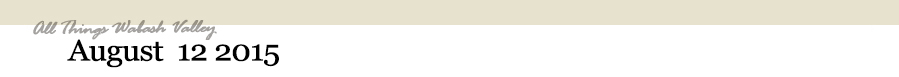
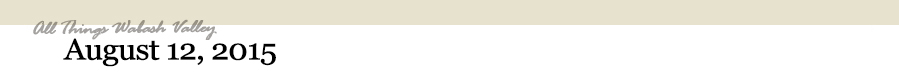
Updated
Updated WISU
Replaced headlines that had missing comma

Changed region(s): [[0.0623, 0.4935, 0.3115, 0.8831]]

diff --git a/GitHubBuild/archive.html b/GitHubBuild/archive.html
@@ -77,7 +77,7 @@ $(window).load(function(){
 				
 				<div class="clear"></div>
 				<script>
-				   var prevMV = "081915"
+				   var prevMV = "082615"
 				  function MonthViewer (n){
 				  if(prevMV != 0){
 				    prevMV = document.getElementsByClassName(prevMV);
@@ -153,6 +153,7 @@ $(window).load(function(){
 						<li onclick="MonthViewer('080515')"><a>August 5, 2015</a></li>
 						<li onclick="MonthViewer('081215')"><a>August 12, 2015</a></li>
 						<li onclick="MonthViewer('081915')"><a>August 19, 2015</a></li>
+						<li onclick="MonthViewer('082615')"><a>August 26, 2015</a></li>
 						 </ul>
 						 </li>
 						 
@@ -1065,12 +1066,12 @@ $(window).load(function(){
 				</p>
 				</td>
 				</tr>
-				<tr class="081915" style="display:table-row;">
+				<tr class="081915" style="display:none;">
                 <td style="text-align:left;padding:10px;"> 
 				<img src="images/Archive/WV.081915/Headline081915.jpg"/>
               </td>
               </tr>
-				<tr class="081915" style="display:table-row;">
+				<tr class="081915" style="display:none;">
 				<td style="text-align:left;padding:10px;">
 				<p> <img style="float:left;max-width:150px;padding-right:20px;" src="images/Archive/WV.081915/WV.081915.Beegle.jpg">
 				Dr. Donna Beegle, author of See Poverty, Be the Difference spoke with Dr. Phil Glende, explaining her own impoverished background, born to a family of cotton pickers. Beegle has worked in 49 states to study how poverty changes across the country. She spoke about what she has learned, how distanced social classes are in America, and what our government can do to make a change. <a href="https://soundcloud.com/wisu-fm/dr-donna-beegle-interview" target="_blank">Donna Beegle: originally aired April 22, 2015</a>
@@ -1078,7 +1079,7 @@ $(window).load(function(){
 				</td>
 				</tr>
 				
-<tr class="081915" style="display:table-row;">
+<tr class="081915" style="display:none;">
 				<td style="text-align:left;padding:10px;">
 							<img src="images/Archive/WV.081915/WV.081915.Morrison.jpg" style="float:left;max-width:150px;padding-right:20px;" title="Alan Morrison"/>
 							
@@ -1087,7 +1088,7 @@ $(window).load(function(){
 							</p>				
 				</td>
 				
-				<tr class="081915" style="display:table-row;">
+				<tr class="081915" style="display:none;">
 				<td style="text-align:left;padding:10px;">
 											
 							<img src="images/Archive/WV.081915/WV.081915.Bennett.jpg" style="float:left;max-width:150px;padding-right:20px;" title="Michelle Bennett"/>
@@ -1099,13 +1100,46 @@ $(window).load(function(){
 				</tr>
                 </tr>
 				
-<tr class="081915" style="display:table-row;">
+<tr class="081915" style="display:none;">
 				<td style="text-align:left;padding:10px;">
 				<p> <img style="float:left;max-width:150px;padding-right:20px;" src="images/Archive/WV.081915/WV.081915.Bradley.jpg">
 				Indiana State University President Dr. Dan Bradley spoke with Dave Taylor. Dr. Bradley discussed his time as president of ISU and how he has changed things for the school. President Bradley also went over how the university is doing overall currently and future plans for updates both on campus and in class. <a href="https://soundcloud.com/wisu-fm/dan-bradley-interview" target="_blank">President Bradley: originally aired March 11, 2015</a>
 				</p>
 				</td>
 				</tr>
+				
+				<tr class="082615" style="display:table-row;">
+				<td style="text-align:left;padding:10px;">
+				<p> <img style="float:left;max-width:150px;padding-right:20px;" src="images/Archive/WV.082615/WV.082615.Kenley.jpg">
+				Luke Kenley spoke with Greg Goode about his various duties as Senator, and discusses various political topics within the state of Indiana. <a href="https://soundcloud.com/wisu-fm/senator-kenley" target="_blank">Senator Luke Kenley: aired August 26, 2015</a>
+				</p>
+				</td>
+				</tr>
+				
+				<tr class="082615" style="display:table-row;">
+				<td style="text-align:left;padding:10px;">
+				<p> <img style="float:left;max-width:150px;padding-right:20px;" src="images/Archive/WV.082615/WV.082615.May.jpg">
+				Dr. Phil Glende, head of student media at Indiana State University, interviewed Cinda May, head of special collections at Cunningham Memorial Library at ISU, who discussed the 500 year old German to Latin dictionary now being held in the Cordell collection. May explains why this nearly ancient book is so special and why ISU is lucky to have it added to an already astounding collection. <a href="https://soundcloud.com/wisu-fm/cinda-may-interview" target="_blank">Cinda May: originally aired March 25 2015</a>
+				</p>
+				</td>
+				</tr>
+				
+				<tr class="082615" style="display:table-row;">
+				<td style="text-align:left;padding:10px;">
+				<p> <img style="float:left;max-width:150px;padding-right:20px;" src="images/Archive/WV.082615/WV.082615.Robinson.jpg">
+				Aimee Janssen-Robinson, Director of Equal Opportunity and Title IX Coordinator at Indiana State University, spoke with Phil Glende about sexual violence and how to be safe. She also touches on Title IX's new app, “It's On Blue.” <a href="https://soundcloud.com/wisu-fm/aimee-janssen-robinson-interview" target="_blank">Aimee Jansen-Robinson: aired August 26 2015</a>
+				</p>
+				</td>
+				</tr>
+				
+				<tr class="082615" style="display:table-row;">
+				<td style="text-align:left;padding:10px;">
+				<p> <img style="float:left;max-width:150px;padding-right:20px;" src="images/Archive/WV.082615/WV.082615.Speer.jpg">
+				Drs. Jim Speer and Jeffery Stone talked with Dr. Phil Glende to discuss the Wabash River and various environmental issues. <a href="https://soundcloud.com/wisu-fm/dr-jim-spear-jeffery-stone-interview" target="_blank">Drs. Jim Speer and Jeffery Stone: originally aired: February 18 2015
+				</p>
+				</td>
+				</tr>
+				
 	                      </table>
 							
 						</div>
